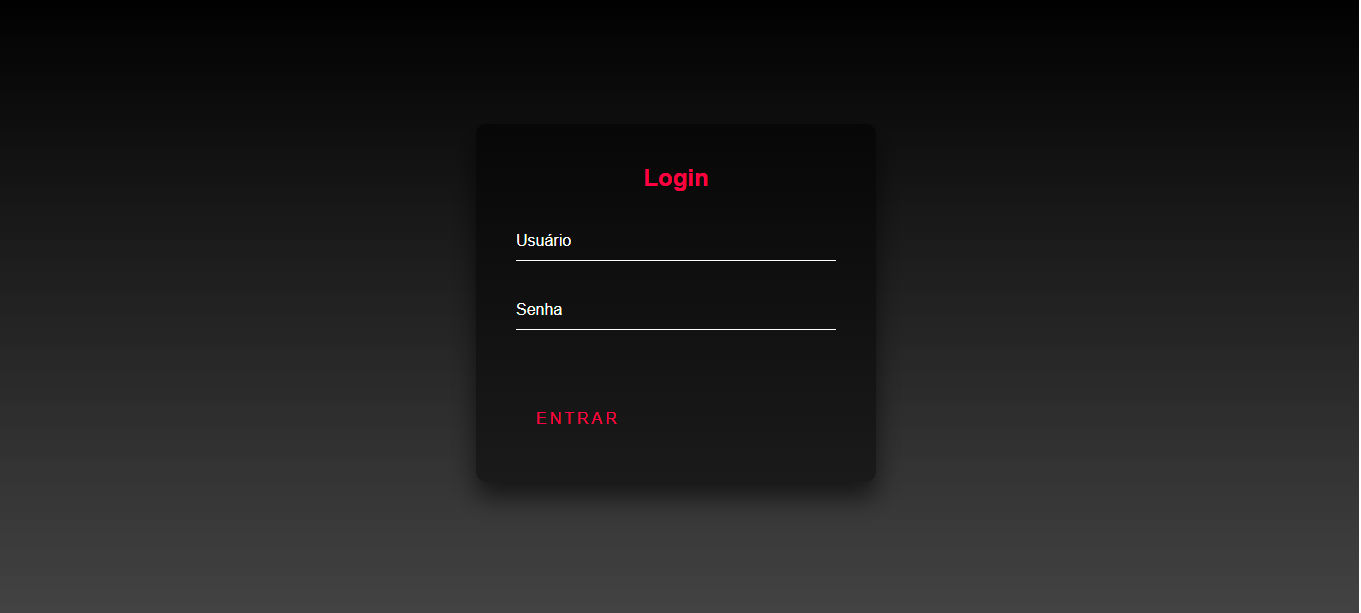
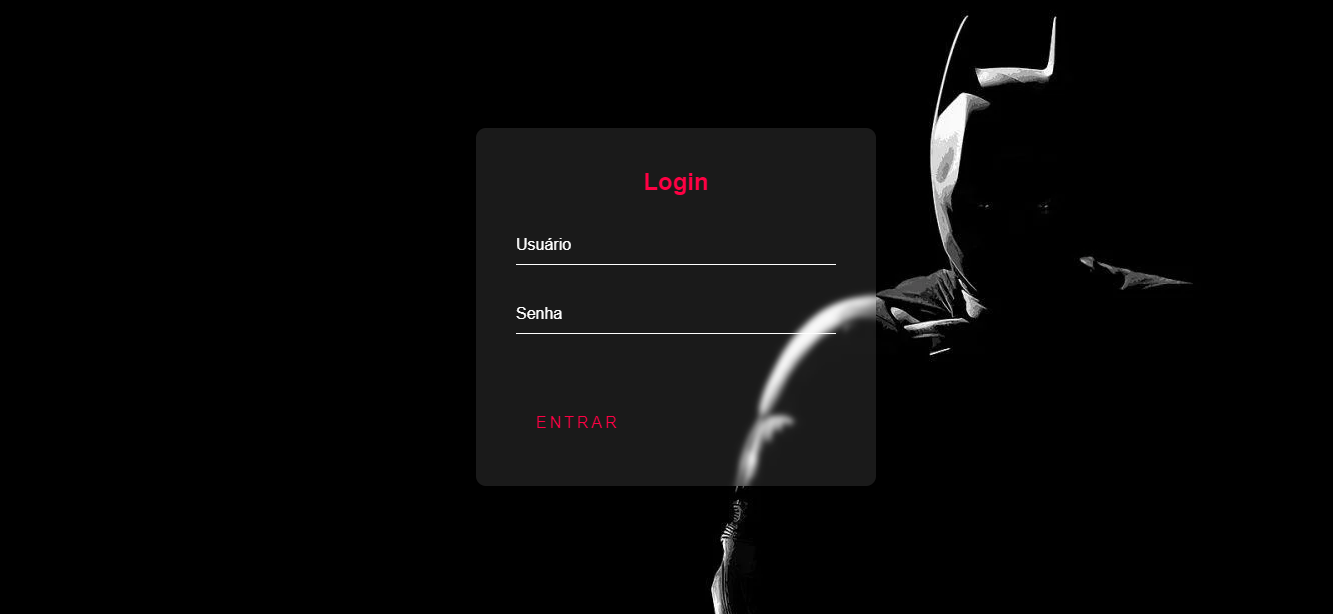
Update

diff --git a/style.css b/style.css
@@ -6,7 +6,8 @@ body {
     margin: 0;
     padding: 0;
     font-family: sans-serif;
-    background: linear-gradient(#000000, #434343);
+    background-image: url("wall.png");
+
 }
 
 .login-box {
@@ -20,6 +21,9 @@ body {
     box-sizing: border-box;
     box-shadow: 0 15px 25px rgba(0, 0, 0, .6);
     border-radius: 10px;
+    background: rgba(255, 255, 255, 0.1);
+    backdrop-filter: blur(3px);
+    -webkit-backdrop-filter: blur(3px);
 }
 
 .login-box h2 {

diff --git a/README.md b/README.md
@@ -1,3 +1,3 @@
 # TelaLoginBlack
 Vídeo >> https://user-images.githubusercontent.com/78267195/162487611-d5caf41b-e311-4d30-b184-538ea41dacee.mp4
-![TELA](https://user-images.githubusercontent.com/78267195/162789182-4782cb84-aacb-4e56-88b0-f055b514bd2a.png)
+![TELA](https://user-images.githubusercontent.com/78267195/162484392-76d82969-630e-4a54-be2b-88cc2dfca090.png)
